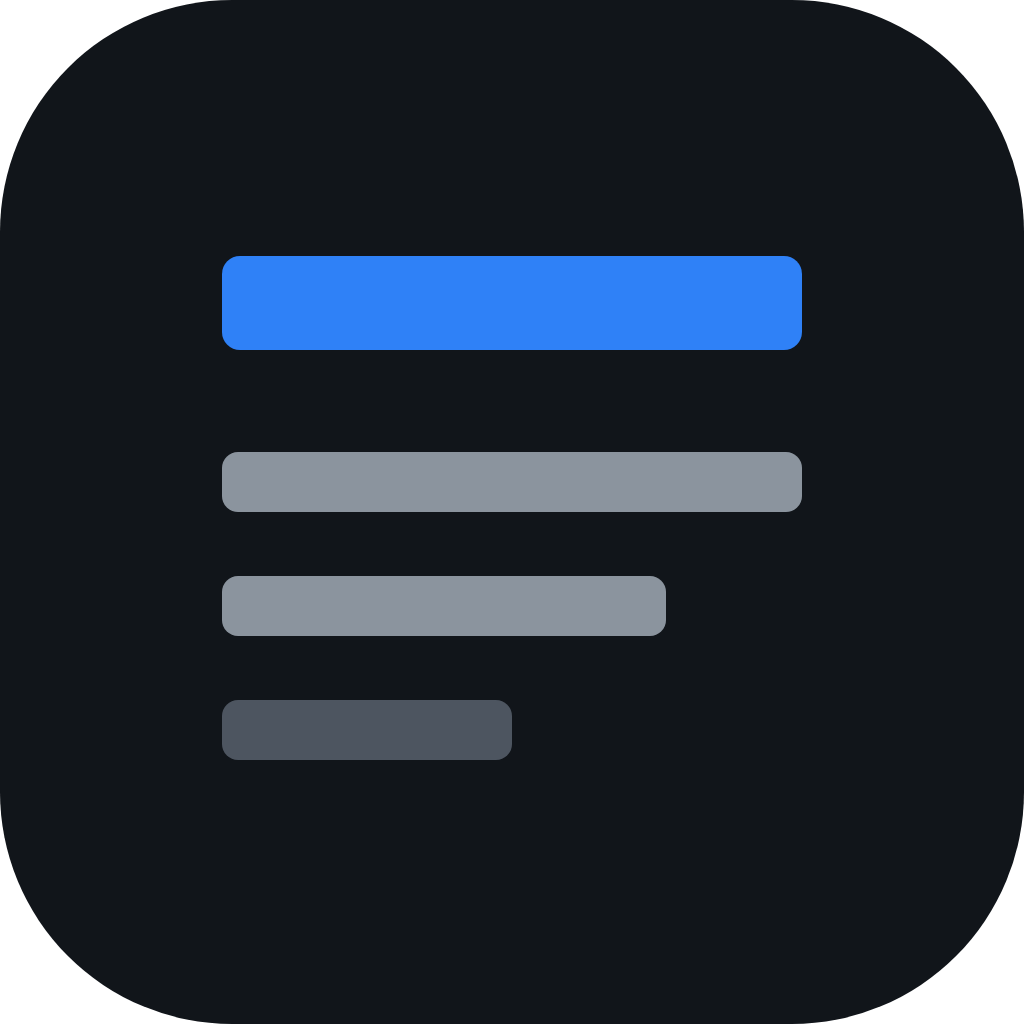
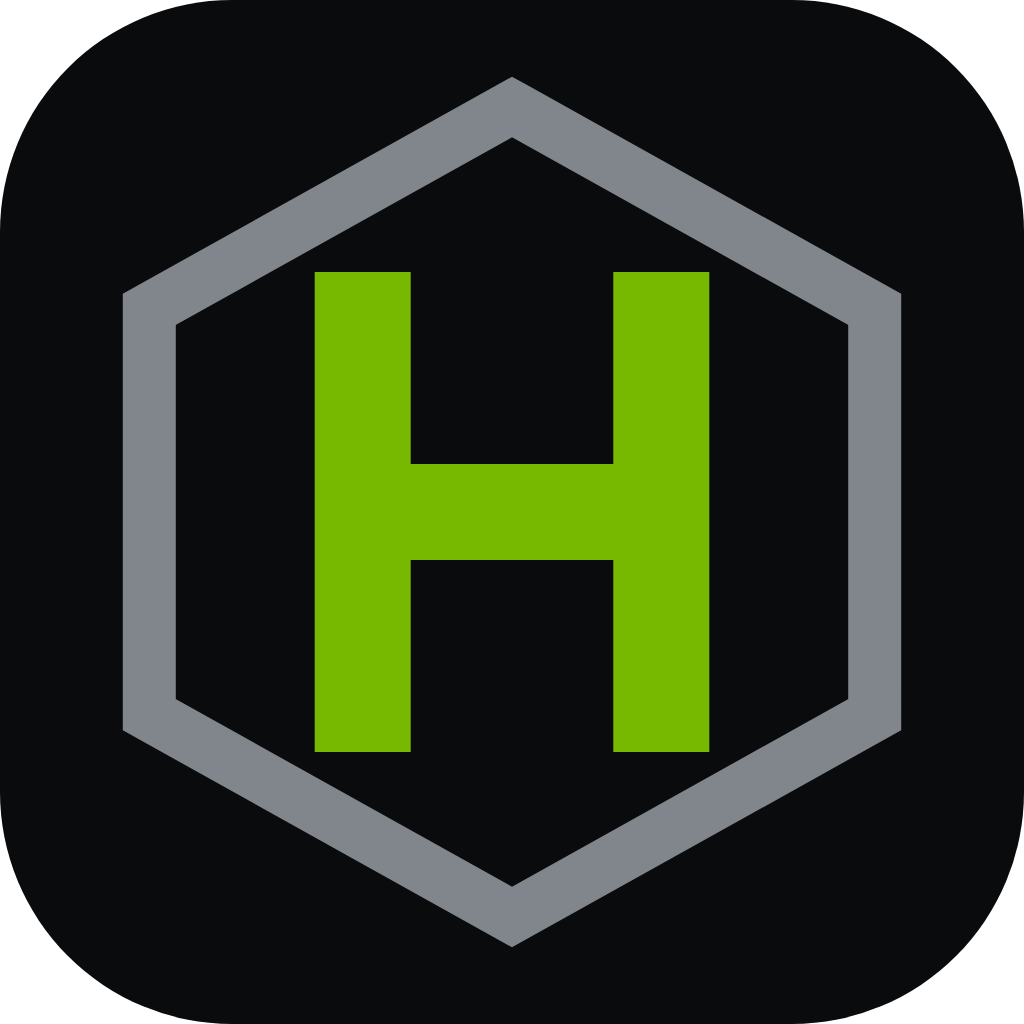
Show the product, and keep the H
The monogram stays: it is the mark the project has had, and the owner wants it.
Its source is now a 1024px SVG with the PNGs rendered from it, rather than a
322-byte favicon and nothing else.

A reader could not see what this is. The README now opens with the product and
shows three of it: the daily edition, the release breakdown, and what the
community shipped. Every screenshot comes from the bundled demo data, so no
watchlist, record or private feed appears in them.

diff --git a/README.md b/README.md
@@ -9,6 +9,23 @@ front page, a live wire, daily and weekly editions, and a searchable archive.
 
 It reports. It does not draft posts, queue work, or publish anything.
 
+## What you get
+
+<img src="docs/images/hermes-daily.png" alt="Hermes Daily: a nine-story edition with a printable newspaper view" width="820">
+
+A daily edition you can read or print, built from what the sources actually published.
+
+<img src="docs/images/agent-updates.png" alt="Hermes Agent Updates: what changed, is new, is gone, is better, is bad" width="820">
+
+Every release and merged change, sorted into what changed, what is new, what is gone, what is better and what is bad — quoted from the notes, never written by a model.
+
+<img src="docs/images/built-with-hermes.png" alt="Built With Hermes: community projects ranked by GitHub popularity" width="820">
+
+What the community is shipping on Hermes, so you can find a project again next week.
+
+Screenshots use the bundled demo data, which is what you see before turning live
+sources on.
+
 ## The sections
 
 | Section                  | What it shows                                                                     |

diff --git a/resources/README.md b/resources/README.md
@@ -11,9 +11,5 @@ and re-render rather than editing a PNG.
 | `icon-64.png`        | small UI                                   |
 | `social-preview.png` | 1280x640, GitHub Settings > Social preview |
 
-The mark is a lead story above the rest, which is what the product does: rank an
-edition and put the most important thing first. The accent is the only coloured
-surface, as on the page itself.
-
-It deliberately avoids a Hermes monogram. This project reports on Hermes Agent
-and is not affiliated with Nous Research, so its mark should not borrow theirs.
+Product screenshots live in `docs/images/` and are captured from the bundled
+demo data, never from a real feed, so they carry no one's watchlists or records.
